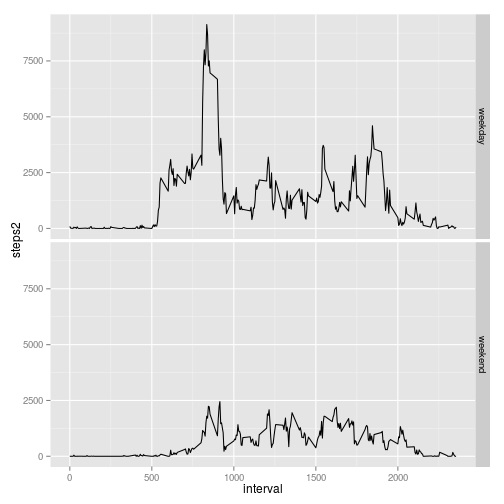
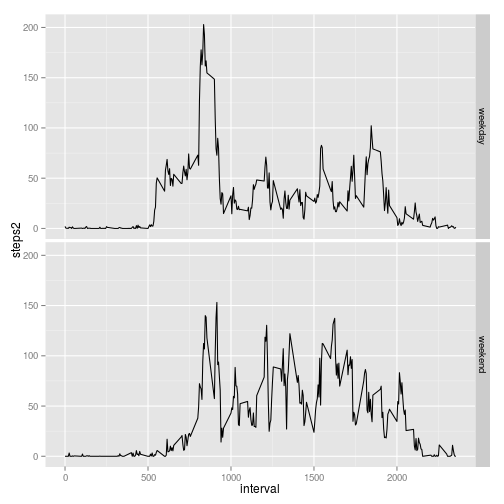
Correct other mean/sum issue

diff --git a/PA1_template.html b/PA1_template.html
@@ -289,12 +289,12 @@ activity$day &lt;- with(activity, replace(day, day != &quot;weekend&quot;, &quot
 activity$day &lt;- factor(activity$day)
 library(ggplot2)
 p &lt;- ggplot(activity, aes(x=interval, y=steps2))
-p &lt;- p + stat_summary(fun.y=&quot;sum&quot;, geom=&quot;line&quot;)
+p &lt;- p + stat_summary(fun.y=&quot;mean&quot;, geom=&quot;line&quot;)
 p &lt;- p + facet_grid(day ~ .)
 print(p)
 </code></pre>
 
[2 lines of base64/hex data omitted]
 
 </body>
 

diff --git a/PA1_template.md b/PA1_template.md
@@ -132,7 +132,7 @@ activity$day <- with(activity, replace(day, day != "weekend", "weekday"))
 activity$day <- factor(activity$day)
 library(ggplot2)
 p <- ggplot(activity, aes(x=interval, y=steps2))
-p <- p + stat_summary(fun.y="sum", geom="line")
+p <- p + stat_summary(fun.y="mean", geom="line")
 p <- p + facet_grid(day ~ .)
 print(p)
 ```
